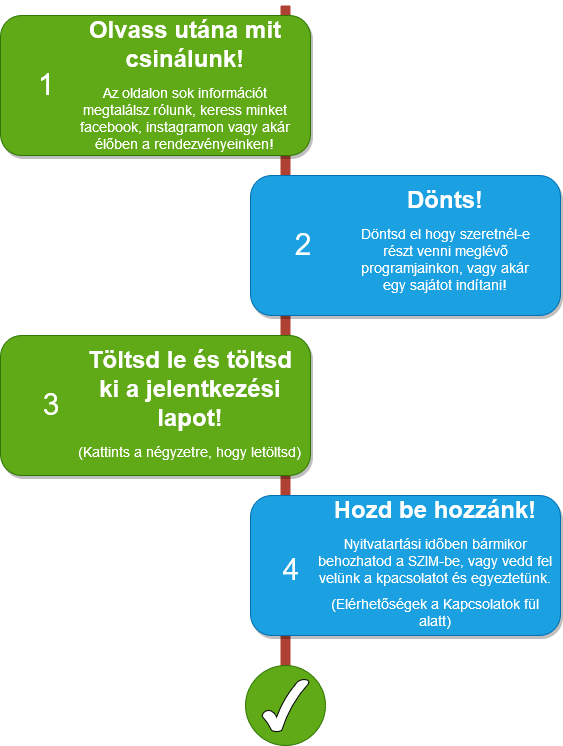
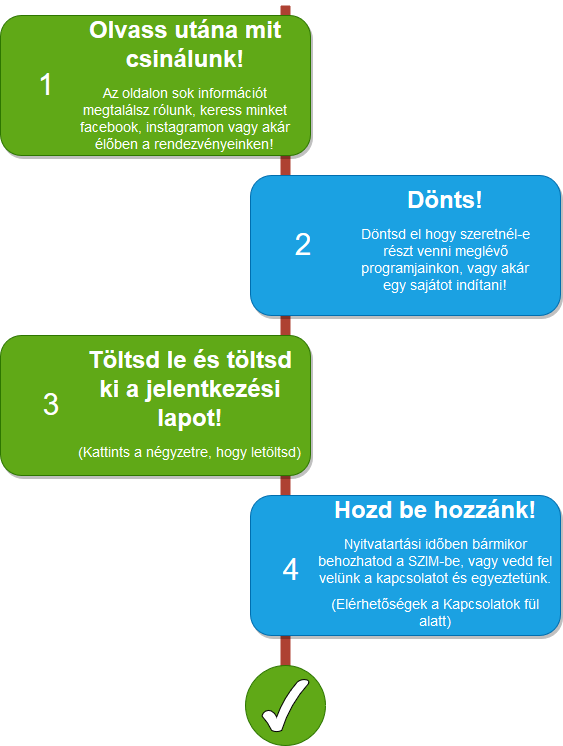
Csatlakozás/Flowchart szóhiba javítása, erre a képre való kattintásra letöltödik a SZIM_belepes_lap.docx, partnereink oldal újratergvezése -> 4 oszlop, 1 sor, és csak a partnerek neve/leírása látszik

diff --git a/partnereink/index.htm b/partnereink/index.htm
@@ -23,15 +23,15 @@
 <meta content="Divi v.3.22.4" name="generator">
 <style type="text/css">
 img.wp-smiley, img.emoji {
-    display: inline !important;
-    border: none !important;
-    box-shadow: none !important;
-    height: 1em !important;
-    width: 1em !important;
-    margin: 0 .07em !important;
-    vertical-align: -0.1em !important;
-    background: none !important;
-    padding: 0 !important;
+	display: inline !important;
+	border: none !important;
+	box-shadow: none !important;
+	height: 1em !important;
+	width: 1em !important;
+	margin: 0 .07em !important;
+	vertical-align: -0.1em !important;
+	background: none !important;
+	padding: 0 !important;
 }
 </style>
 <link rel="stylesheet" id="wp-block-library-css" href="..\wp-includes\css\dist\block-library\style.min.css?ver=5.1.1" type="text/css" media="all">
@@ -40,7 +40,7 @@ img.wp-smiley, img.emoji {
 <!-- Inline jetpack_facebook_likebox -->
 <style id="jetpack_facebook_likebox-inline-css" type="text/css">
 .widget_facebook_likebox {
-    overflow: hidden;
+	overflow: hidden;
 }
 </style>
 <link rel="stylesheet" id="dashicons-css" href="..\wp-includes\css\dashicons.min.css?ver=5.1.1" type="text/css" media="all">
@@ -58,7 +58,7 @@ img.wp-smiley, img.emoji {
 <link rel="dns-prefetch" href="//v0.wordpress.com">
 <style type="text/css">
 img#wpstats {
-    display: none
+	display: none
 }
 </style>
 <meta name="viewport" content="width=device-width, initial-scale=1.0, maximum-scale=1.0, user-scalable=0">
@@ -99,7 +99,7 @@ img#wpstats {
             <li id="menu-item-150" class="menu-item menu-item-type-post_type menu-item-object-page menu-item-150"><a href="..\hirek\index.htm">Hírek</a></li>
             <li id="menu-item-149" class="menu-item menu-item-type-post_type menu-item-object-page menu-item-149"><a href="..\Csatlakozas\index.htm">Csatlakozás</a></li>
             <li id="menu-item-151" class="menu-item menu-item-type-post_type menu-item-object-page menu-item-151"><a href="..\esemenyek\index.htm">Események</a></li>
-            <li id="menu-item-152" class="menu-item menu-item-type-post_type menu-item-object-page current-menu-item page_item page-item-79 current_page_item menu-item-152"><a href="index.htm" aria-current="page">Partnereink</a></li>
+            <li id="menu-item-152" class="menu-item menu-item-type-post_type menu-item-object-page current-menu-item page_item page-item-79 current_page_item menu-item-152"><a href="index.htm" aria-current="page">Kapcsolataink</a></li>
             <li id="menu-item-153" class="menu-item menu-item-type-post_type menu-item-object-page menu-item-153"><a href="..\galeria\index.htm">Galéria</a></li>
             <li id="menu-item-154" class="menu-item menu-item-type-post_type menu-item-object-page menu-item-154"><a href="..\kapcsolat\index.htm">Kapcsolat</a></li>
           </ul>
@@ -131,7 +131,7 @@ img#wpstats {
                   <div class="et_pb_column et_pb_column_3_5 et_pb_column_0    et_pb_css_mix_blend_mode_passthrough">
                     <div class="et_pb_module et_pb_image et_pb_image_0 et_always_center_on_mobile"> <a href="..\index.htm"><span class="et_pb_image_wrap "><img src="..\wp-content\uploads\2019\01\SZIM_logo_150px.png" alt=""></span></a> </div>
                     <div class="et_pb_module et_pb_text et_pb_text_0 et_animated et_pb_bg_layout_light  et_pb_text_align_left">
-                      <div class="et_pb_text_inner">
+                      <div class="et_pb_text_inner_1">
                         <h1>Kapcsolataink</h1>
                         <p>&nbsp;</p>
                         <p>&nbsp;</p>
@@ -149,97 +149,138 @@ img#wpstats {
                 <div class="et_pb_bottom_inside_divider et-no-transition"></div>
               </div>
               <!-- .et_pb_section -->
-              
-              <div class="et_pb_section et_pb_section_1 et_pb_equal_columns et_pb_with_background et_section_specialty">
+              <div class="et_pb_section et_pb_section_1">
                 <div class="et_pb_row_inner et_pb_row_inner_1 et_animated et_hover_enabled">
-                  <div class="et_pb_column et_pb_column_1_2 et_pb_column_5    et_pb_css_mix_blend_mode_passthrough">
-                    <div class="et_pb_module et_pb_text et_pb_text_2 et_pb_text_align_center">
-						<h2>Partnereink</h2>
-						<p>Minden partnerségre nyitottak vagyunk, eddigi tapasztalataink szerint...</p>
-					  </div>
-                    <div class="et_pb_module et_pb_text et_pb_text_3 et_pb_bg_layout_light  et_pb_text_align_center">
-                      <div class="et_pb_text_inner">
-                        <h2>Hívjon!</h2>
-                        <p><a href="#">+36 73 123 4567</a></p>
-                      </div>
-                    </div>
-                    <!-- .et_pb_text --> 
+                  <div class="et_pb_module et_pb_text et_pb_text_2 et_pb_text_align_center">
+                    <h2>Partnereink</h2>
                   </div>
-                  <!-- .et_pb_column --> 
-					<div class="et_pb_column et_pb_column_1_2 et_pb_column_1   et_pb_specialty_column  et_pb_css_mix_blend_mode_passthrough">
-                    <!-- .et_pb_row_inner -->
-                    <div class="et_pb_row_inner et_pb_row_inner_1 et_animated et_hover_enabled">
-                      <div class="et_pb_column et_pb_column_1_4 et_pb_column_inner et_pb_column_inner_2 et_hover_enabled  ">
-                        <div class="et_pb_module et_pb_blurb et_pb_blurb_1 et_pb_bg_layout_light  et_pb_text_align_left  et_pb_blurb_position_top">
-                          <div class="et_pb_blurb_content">
-                            <div class="et_pb_blurb_container">
-                              <div class="et_pb_blurb_description et_pb_image">
-									<img src="lafarge.png" alt="LaFarge">
-								</div>
-                              <!-- .et_pb_blurb_description --> 
-                            </div>
-                          </div>
-                          <!-- .et_pb_blurb_content --> 
+                </div>
+              </div>
+              <div class="et_pb_section et_pb_section_2 et_pb_equal_columns et_pb_with_background et_section_specialty">
+                <div class="et_pb_row_inner et_pb_row_inner_1 et_animated et_hover_enabled">
+                  <div class="et_pb_column et_pb_column_1_4 et_pb_column_inner et_pb_column_inner_2 et_hover_enabled  ">
+                    <div class="et_pb_module et_pb_blurb et_pb_blurb_1 et_pb_bg_layout_light  et_pb_text_align_left  et_pb_blurb_position_top">
+                      <div class="et_pb_blurb_content">
+                        <div class="et_pb_blurb_container">
+                          <div class="et_pb_blurb_description et_pb_image"> <img src="lafarge.png" alt="LaFarge"> </div>
+                          <!-- .et_pb_blurb_description --> 
                         </div>
-                        <!-- .et_pb_blurb -->
-                        <div class="et_pb_module et_pb_blurb et_pb_blurb_2 et_pb_bg_layout_light  et_pb_text_align_left  et_pb_blurb_position_top">
-                          <div class="et_pb_blurb_content">
-                            <div class="et_pb_blurb_container">
-                              <h4 class="et_pb_module_header">Partner2</h4>
-                              <div class="et_pb_blurb_description"> Orci varius natoque penatibus et magnis dis. Cras commodo tortor elit, sed consectetur. </div>
-                              <!-- .et_pb_blurb_description --> 
-                            </div>
-                          </div>
-                          <!-- .et_pb_blurb_content --> 
-                        </div>
-                        <!-- .et_pb_blurb -->
-                        <div class="et_pb_module et_pb_blurb et_pb_blurb_3 et_pb_bg_layout_light  et_pb_text_align_left  et_pb_blurb_position_top">
-                          <div class="et_pb_blurb_content">
-                            <div class="et_pb_blurb_container">
-                              <h4 class="et_pb_module_header">Partner3</h4>
-                              <div class="et_pb_blurb_description"> Orci varius natoque penatibus et magnis dis. Cras commodo tortor elit, sed consectetur. </div>
-                              <!-- .et_pb_blurb_description --> 
-                            </div>
-                          </div>
-                          <!-- .et_pb_blurb_content --> 
-                        </div>
-                        <!-- .et_pb_blurb --> 
                       </div>
-                      <!-- .et_pb_column -->
-                      <div class="et_pb_column et_pb_column_1_4 et_pb_column_inner et_pb_column_inner_3 et_hover_enabled  ">
-                        <div class="et_pb_module et_pb_blurb et_pb_blurb_4 et_pb_bg_layout_light  et_pb_text_align_left  et_pb_blurb_position_top">
-                          <div class="et_pb_blurb_content">
-                            <div class="et_pb_blurb_container">
-                              <h4 class="et_pb_module_header">Partner4</h4>
-                              <div class="et_pb_blurb_description"> Orci varius natoque penatibus et magnis dis. Cras commodo tortor elit, sed consectetur. </div>
-                              <!-- .et_pb_blurb_description --> 
-                            </div>
-                          </div>
-                          <!-- .et_pb_blurb_content --> 
-                        </div>
-                        <!-- .et_pb_blurb -->
-                        <div class="et_pb_module et_pb_blurb et_pb_blurb_5 et_pb_bg_layout_light  et_pb_text_align_left  et_pb_blurb_position_top">
-                          <div class="et_pb_blurb_content">
-                            <div class="et_pb_blurb_container">
-                              <h4 class="et_pb_module_header">Partner5</h4>
-                              <div class="et_pb_blurb_description"> Orci varius natoque penatibus et magnis dis. Cras commodo tortor elit, sed consectetur. </div>
-                              <!-- .et_pb_blurb_description --> 
-                            </div>
-                          </div>
-                          <!-- .et_pb_blurb_content --> 
-                        </div>
-                        <!-- .et_pb_blurb --> 
-						  
-                      </div>
-                      <!-- .et_pb_column --> 
-                      
+                      <!-- .et_pb_blurb_content --> 
                     </div>
-                    <!-- .et_pb_row_inner --> 
+                    <!-- .et_pb_blurb -->
+                    <div class="et_pb_module et_pb_blurb et_pb_blurb_2 et_pb_bg_layout_light  et_pb_text_align_left  et_pb_blurb_position_top">
+                      <div class="et_pb_blurb_content">
+                        <div class="et_pb_blurb_container">
+                          <h4 class="et_pb_module_header">Partner2</h4>
+                          <div class="et_pb_blurb_description"> Orci varius natoque penatibus et magnis dis. Cras commodo tortor elit, sed consectetur. </div>
+                          <!-- .et_pb_blurb_description --> 
+                        </div>
+                      </div>
+                      <!-- .et_pb_blurb_content --> 
+                    </div>
+                    <!-- .et_pb_blurb -->
+                    <div class="et_pb_module et_pb_blurb et_pb_blurb_3 et_pb_bg_layout_light  et_pb_text_align_left  et_pb_blurb_position_top">
+                      <div class="et_pb_blurb_content">
+                        <div class="et_pb_blurb_container">
+                          <h4 class="et_pb_module_header">Partner3</h4>
+                          <div class="et_pb_blurb_description"> Orci varius natoque penatibus et magnis dis. Cras commodo tortor elit, sed consectetur. </div>
+                          <!-- .et_pb_blurb_description --> 
+                        </div>
+                      </div>
+                      <!-- .et_pb_blurb_content --> 
+                    </div>
+                    <!-- .et_pb_blurb --> 
                   </div>
                   <!-- .et_pb_column -->
+                  <div class="et_pb_column et_pb_column_1_4 et_pb_column_inner et_pb_column_inner_2 et_hover_enabled  ">
+                    <div class="et_pb_module et_pb_blurb et_pb_blurb_4 et_pb_bg_layout_light  et_pb_text_align_left  et_pb_blurb_position_top">
+                      <div class="et_pb_blurb_content">
+                        <div class="et_pb_blurb_container">
+                          <h4 class="et_pb_module_header">Partner4</h4>
+                          <div class="et_pb_blurb_description"> Orci varius natoque penatibus et magnis dis. Cras commodo tortor elit, sed consectetur. </div>
+                          <!-- .et_pb_blurb_description --> 
+                        </div>
+                      </div>
+                      <!-- .et_pb_blurb_content --> 
+                    </div>
+                    <!-- .et_pb_blurb -->
+                    <div class="et_pb_module et_pb_blurb et_pb_blurb_5 et_pb_bg_layout_light  et_pb_text_align_left  et_pb_blurb_position_top">
+                      <div class="et_pb_blurb_content">
+                        <div class="et_pb_blurb_container">
+                          <h4 class="et_pb_module_header">Partner5</h4>
+                          <div class="et_pb_blurb_description"> Orci varius natoque penatibus et magnis dis. Cras commodo tortor elit, sed consectetur. </div>
+                          <!-- .et_pb_blurb_description --> 
+                        </div>
+                      </div>
+                      <!-- .et_pb_blurb_content --> 
+                    </div>
+                    <!-- .et_pb_blurb --> 
+                    
+                  </div>
+                  <!-- .et_pb_column -->
+                  <div class="et_pb_column et_pb_column_1_4 et_pb_column_inner et_pb_column_inner_2 et_hover_enabled  ">
+                    <div class="et_pb_module et_pb_blurb et_pb_blurb_1 et_pb_bg_layout_light  et_pb_text_align_left  et_pb_blurb_position_top">
+                      <div class="et_pb_blurb_content">
+                        <div class="et_pb_blurb_container">
+                          <div class="et_pb_blurb_description et_pb_image"> <img src="lafarge.png" alt="LaFarge"> </div>
+                          <!-- .et_pb_blurb_description --> 
+                        </div>
+                      </div>
+                      <!-- .et_pb_blurb_content --> 
+                    </div>
+                    <!-- .et_pb_blurb -->
+                    <div class="et_pb_module et_pb_blurb et_pb_blurb_2 et_pb_bg_layout_light  et_pb_text_align_left  et_pb_blurb_position_top">
+                      <div class="et_pb_blurb_content">
+                        <div class="et_pb_blurb_container">
+                          <h4 class="et_pb_module_header">Partner2</h4>
+                          <div class="et_pb_blurb_description"> Orci varius natoque penatibus et magnis dis. Cras commodo tortor elit, sed consectetur. </div>
+                          <!-- .et_pb_blurb_description --> 
+                        </div>
+                      </div>
+                      <!-- .et_pb_blurb_content --> 
+                    </div>
+                    <!-- .et_pb_blurb -->
+                    <div class="et_pb_module et_pb_blurb et_pb_blurb_3 et_pb_bg_layout_light  et_pb_text_align_left  et_pb_blurb_position_top">
+                      <div class="et_pb_blurb_content">
+                        <div class="et_pb_blurb_container">
+                          <h4 class="et_pb_module_header">Partner3</h4>
+                          <div class="et_pb_blurb_description"> Orci varius natoque penatibus et magnis dis. Cras commodo tortor elit, sed consectetur. </div>
+                          <!-- .et_pb_blurb_description --> 
+                        </div>
+                      </div>
+                      <!-- .et_pb_blurb_content --> 
+                    </div>
+                    <!-- .et_pb_blurb --> 
+                  </div>
+                  <!-- .et_pb_column -->
+                  <div class="et_pb_column et_pb_column_1_4 et_pb_column_inner et_pb_column_inner_2 et_hover_enabled  ">
+                    <div class="et_pb_module et_pb_blurb et_pb_blurb_4 et_pb_bg_layout_light  et_pb_text_align_left  et_pb_blurb_position_top">
+                      <div class="et_pb_blurb_content">
+                        <div class="et_pb_blurb_container">
+                          <h4 class="et_pb_module_header">Partner4</h4>
+                          <div class="et_pb_blurb_description"> Orci varius natoque penatibus et magnis dis. Cras commodo tortor elit, sed consectetur. </div>
+                          <!-- .et_pb_blurb_description --> 
+                        </div>
+                      </div>
+                      <!-- .et_pb_blurb_content --> 
+                    </div>
+                    <!-- .et_pb_blurb -->
+                    <div class="et_pb_module et_pb_blurb et_pb_blurb_5 et_pb_bg_layout_light  et_pb_text_align_left  et_pb_blurb_position_top">
+                      <div class="et_pb_blurb_content">
+                        <div class="et_pb_blurb_container">
+                          <h4 class="et_pb_module_header">Partner5</h4>
+                          <div class="et_pb_blurb_description"> Orci varius natoque penatibus et magnis dis. Cras commodo tortor elit, sed consectetur. </div>
+                          <!-- .et_pb_blurb_description --> 
+                        </div>
+                      </div>
+                      <!-- .et_pb_blurb_content --> 
+                    </div>
+                    <!-- .et_pb_blurb --> 
+                  </div>
+                  <!-- .et_pb_column --> 
                 </div>
-                <!-- .et_pb_row --> 
-                
+                <!-- .et_pb_row_inner --> 
               </div>
               <!-- .et_pb_section -->
               <div class="et_pb_section et_pb_section_3 et_pb_with_background et_section_regular section_has_divider et_pb_bottom_divider et_pb_top_divider">
@@ -254,10 +295,8 @@ img#wpstats {
                     <!-- .et_pb_text --> 
                   </div>
                   <!-- .et_pb_column --> 
-                  
                 </div>
                 <!-- .et_pb_row -->
-                
                 <div class="et_pb_bottom_inside_divider et-no-transition"></div>
               </div>
               <!-- .et_pb_section -->
@@ -345,7 +384,7 @@ img#wpstats {
                   <li class="menu-item menu-item-type-post_type menu-item-object-page menu-item-150"><a href="..\hirek\index.htm">Hírek</a></li>
                   <li class="menu-item menu-item-type-post_type menu-item-object-page menu-item-149"><a href="..\ajanlatok\index.htm">Csatlakozás</a></li>
                   <li class="menu-item menu-item-type-post_type menu-item-object-page menu-item-151"><a href="..\esemenyek\index.htm">Események</a></li>
-                  <li class="menu-item menu-item-type-post_type menu-item-object-page current-menu-item page_item page-item-79 current_page_item menu-item-152"><a href="index.htm" aria-current="page">Partnereink</a></li>
+                  <li class="menu-item menu-item-type-post_type menu-item-object-page current-menu-item page_item page-item-79 current_page_item menu-item-152"><a href="index.htm" aria-current="page">Kapcsolataink</a></li>
                   <li class="menu-item menu-item-type-post_type menu-item-object-page menu-item-153"><a href="..\galeria\index.htm">Galéria</a></li>
                   <li class="menu-item menu-item-type-post_type menu-item-object-page menu-item-154"><a href="..\kapcsolat\index.htm">Kapcsolat</a></li>
                 </ul>

diff --git a/wp-content/cache/et/79/et-core-unified-15589675306317.min.css b/wp-content/cache/et/79/et-core-unified-15589675306317.min.css
@@ -231,7 +231,7 @@ div.et_pb_section.et_pb_section_0 {
 	background-image: radial-gradient(circle at top left, rgba(255,255,255,0.8) 60%, rgba(161,176,221,0.64) 60%), url(../../../uploads/2019/01/partners_01.jpg)!important
 }
 .et_pb_section_3.section_has_divider.et_pb_top_divider .et_pb_top_inside_divider {
[2 lines of base64/hex data omitted]
 	background-size: 100% 100px;
 	top: 0;
 	height: 100px;
@@ -260,9 +260,9 @@ div.et_pb_section.et_pb_section_0 {
 	background-color: rgba(27,149,117,1.00)!important
 }
 .et_pb_section_4 {
-	padding-top: 0px;
-	padding-right: 0px;
-	padding-bottom: 0px;
+	padding-top: 0px !important;
+	padding-right: 0px !important;
+	padding-bottom: 0px !important;
 	padding-left: 0px
 }
 .et_pb_text_4 {
@@ -550,7 +550,7 @@ ul.et_pb_social_media_follow_0 a.icon {
 	background-color: #c8cad3!important
 }
 .et_pb_section_2.et_pb_section {
-	background-color: #f4f2ef!important
+	background-color: #FFFFFF!important
 }
 .et_pb_section_2 {
 	padding-top: 0px;

diff --git a/wp-content/cache/et/94/et-core-unified-15589675668374.min.css b/wp-content/cache/et/94/et-core-unified-15589675668374.min.css
@@ -298,7 +298,7 @@ html:not(.et_fb_edit_enabled) #et-fb-app .et_pb_section_4:hover {
     padding-bottom: 0px;
 }
 div.et_pb_section.et_pb_section_4 {
-    background-image: url(../../../uploads/2019/04/splash.jpg)!important
+    background-image: url(../../../uploads/2019/04/splash_green.jpg)!important
 }
 .et_pb_text_2 h2 {
     font-family: 'Josefin Sans', Helvetica, Arial, Lucida, sans-serif;
@@ -407,9 +407,9 @@ font-size:16px;
 line-height:1.8em
 }
 .et_pb_signup_0.et_pb_subscribe .input {
-    font-family: 'Source Sans Pro', Helvetica, Arial, Lucida, sans-serif;
-    font-size: 16px;
-    line-height: 1.8em
+	font-family: 'Source Sans Pro', Helvetica, Arial, Lucida, sans-serif;
+	font-size: 16px;
+	line-height: 1.8em;
 }
 .et_pb_signup_0.et_pb_contact_field .et_pb_contact_field_options_title {
     font-family: 'Source Sans Pro', Helvetica, Arial, Lucida, sans-serif;

diff --git a/wp-content/themes/Divi/style.css b/wp-content/themes/Divi/style.css
@@ -10018,6 +10018,11 @@ body.et-bfb .et_pb_section_parallax .et_pb_parallax_css, body.et-bfb .et_pb_slid
 .et_pb_text_inner {
     position: relative
 }
+
+.et_pb_text_inner_1 {
+	position: relative;
+	white-space: nowrap
+}
 .et_pb_bg_layout_dark, .et_pb_bg_layout_dark h1, .et_pb_bg_layout_dark h2, .et_pb_bg_layout_dark h3, .et_pb_bg_layout_dark h4, .et_pb_bg_layout_dark h5, .et_pb_bg_layout_dark h6 {
     color: #fff!important
 }
@@ -15957,4 +15962,18 @@ body.et_full_width_page .et_shortcodes_controls_arrows a {
 .et-testimonial {
     padding: 25px
 }
+}
+
+.et_pb_column_inner_2 {
+	padding-left: 2%;
+	padding-right: 2%
+}
+
+.et_pb_row_5 {
+	padding-top: 0px;
+	padding-bottom: 0px;
+	width: 90%;
+    max-width: 90%;
+    margin-left: auto!important;
+    margin-right: 0px!important
 }

diff --git a/Csatlakozas/index.htm b/Csatlakozas/index.htm
@@ -159,7 +159,7 @@ img#wpstats {
                     <!-- .et_pb_text --> 
                   </div>
 				  <div class="et_pb_column et_pb_column_1_2 et_pb_column_2 et_pb_css_mix_blend_mode_passthrough et-last-child">
-					  <div class="et_pb_module et_pb_image et_pb_image_0 et_always_center_on_mobile"> <a href="http://www.szim.eu/"><span class="et_pb_image_wrap "><img src="../Csatlakozas/Csatlakozas_Flowchart.png" alt=""></span></a>
+					  <div class="et_pb_module et_pb_image et_pb_image_0 et_always_center_on_mobile"> <a href="SZIM_belepes_lap.docx" download><span class="et_pb_image_wrap "><img src="../Csatlakozas/Csatlakozas_Flowchart.png" alt=""></span></a>
 					  </div>
 				  </div>
                   <!-- .et_pb_column --> 
